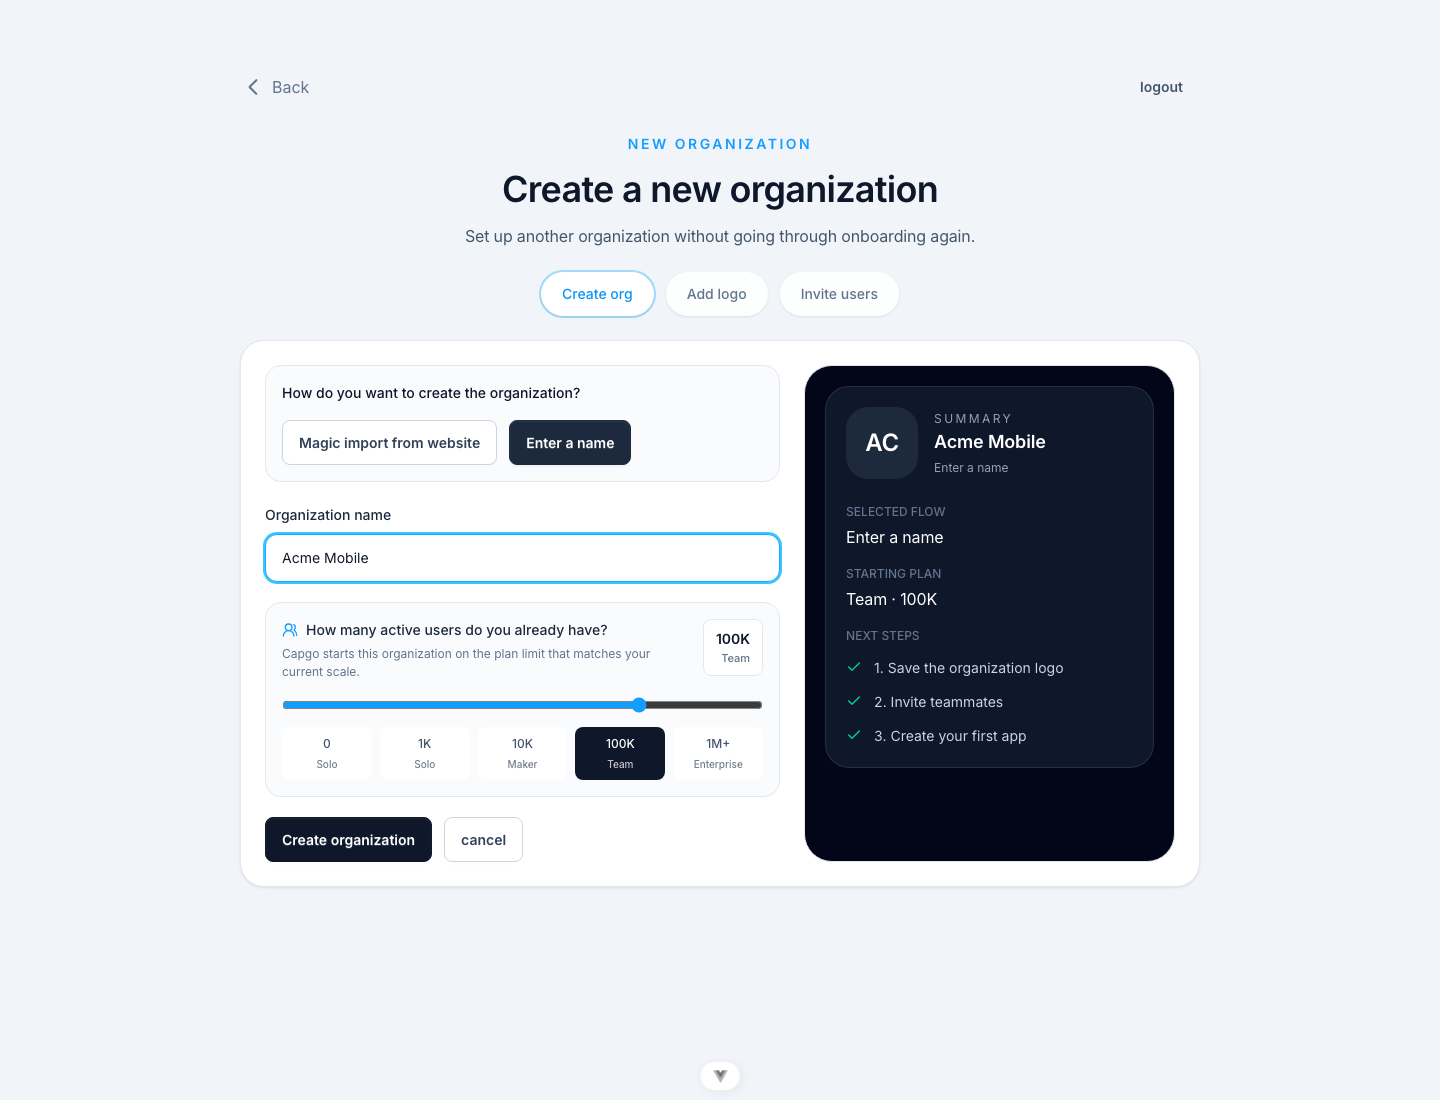
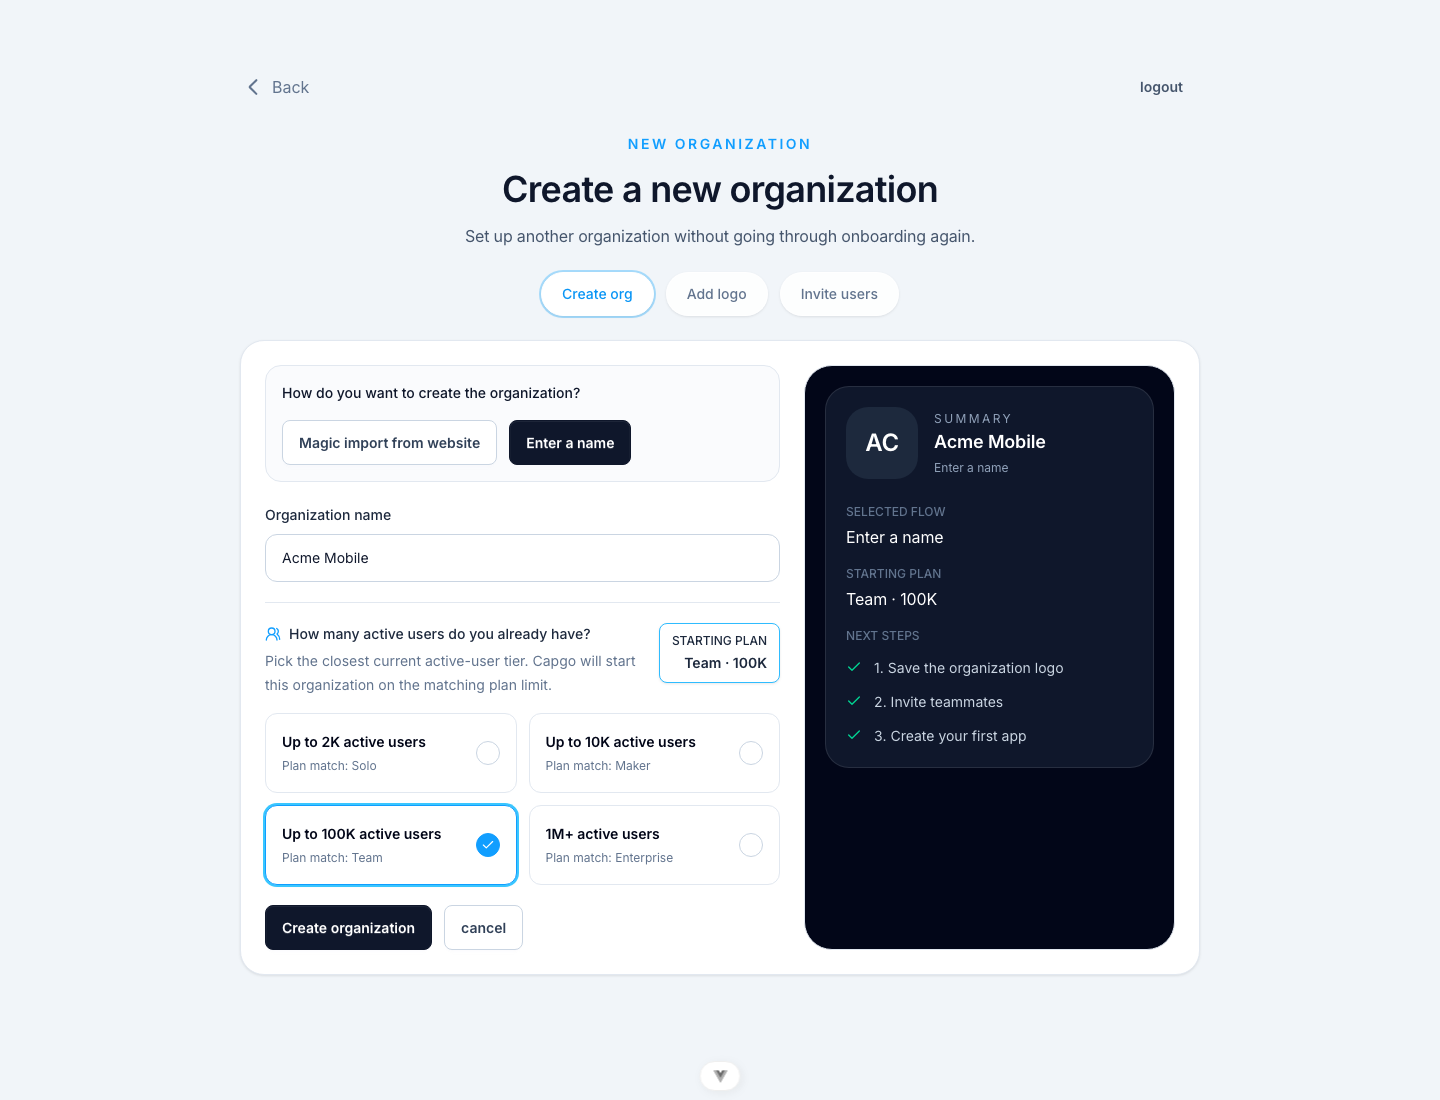
fix(onboarding): improve org plan selector

Changed region(s): [[0.1562, 0.5564, 0.5312, 0.8655], [0.5312, 0.7727, 0.8438, 0.8655]]

diff --git a/src/pages/onboarding/organization.vue b/src/pages/onboarding/organization.vue
@@ -34,6 +34,12 @@ interface WebsitePreview {
   website: string
 }
 
+interface UserCountStop {
+  value: number
+  label: string
+  planName: string
+}
+
 const route = useRoute()
 const router = useRouter()
 const { t } = useI18n()
@@ -58,16 +64,15 @@ const websitePreview = ref<WebsitePreview | null>(null)
 const inviteModalRef = ref<InviteTeammateModalRef | null>(null)
 const logoInputRef = useTemplateRef<HTMLInputElement>('logoInput')
 const isAdditionalOrgFlow = ref(false)
-const estimatedUsersIndex = ref(0)
+const estimatedUsersIndex = ref<number | null>(null)
 
-const fallbackUserCountStops = [
-  { value: 0, label: '0', planName: 'Solo' },
-  { value: 1000, label: '1K', planName: 'Solo' },
+const fallbackUserCountStops: UserCountStop[] = [
+  { value: 2000, label: '2K', planName: 'Solo' },
   { value: 10000, label: '10K', planName: 'Maker' },
   { value: 100000, label: '100K', planName: 'Team' },
   { value: 1000000, label: '1M+', planName: 'Enterprise' },
 ]
-const planNameOrder = ['Solo', 'Maker', 'Team', 'Enterprise']
+const planNameOrder = ['Solo', 'Maker', 'Team', 'Enterprise'] as const
 
 const onboardingSteps: Array<{ id: OnboardingStep, label: string }> = [
   { id: 'details', label: t('organization-onboarding-step-details') },
@@ -82,7 +87,7 @@ const activeOrgName = computed(() => {
   return orgNameInput.value.trim() || websitePreview.value?.name || ''
 })
 const hasSavedLogo = computed(() => currentOrganization.value?.gid === activeOrgId.value && !!currentOrganization.value.logo)
-const userCountStops = computed(() => {
+const userCountStops = computed<UserCountStop[]>(() => {
   const planStops = planNameOrder
     .map(planName => main.plans.find(plan => plan.name === planName))
     .filter(plan => plan?.mau)
@@ -96,15 +101,16 @@ const userCountStops = computed(() => {
     })
 
   if (planStops.length === planNameOrder.length) {
-    return [
-      { value: 0, label: '0', planName: planStops[0].planName },
-      ...planStops,
-    ]
+    return planStops
   }
 
   return fallbackUserCountStops
 })
-const selectedUserCountStop = computed(() => userCountStops.value[Math.min(estimatedUsersIndex.value, userCountStops.value.length - 1)] ?? userCountStops.value[0])
+const selectedUserCountStop = computed<UserCountStop | null>(() => {
+  if (estimatedUsersIndex.value === null)
+    return null
+  return userCountStops.value[Math.min(estimatedUsersIndex.value, userCountStops.value.length - 1)] ?? null
+})
 
 const websiteHostname = computed(() => {
   const value = websiteInput.value.trim()
@@ -126,7 +132,7 @@ const canCreateOrganization = computed(() => {
   if (!main.auth || isSubmitting.value || isLoadingWebsitePreview.value || !mode.value)
     return false
 
-  return !!orgNameInput.value.trim()
+  return !!orgNameInput.value.trim() && !!selectedUserCountStop.value
 })
 const hasExistingOrganization = computed(() => organizationStore.organizations.some(org => !org.role.includes('invite')))
 const inviteSuccessCount = computed(() => sentInvites.value.length)
@@ -161,6 +167,20 @@ function formatUserCount(value: number, plus = false) {
   if (value >= 1000)
     return `${value / 1000}K`
   return String(value)
+}
+
+function getUserCountStopTitle(stop: UserCountStop) {
+  if (stop.value >= 1_000_000)
+    return t('organization-onboarding-active-users-plus', { count: stop.label })
+  return t('organization-onboarding-active-users-up-to', { count: stop.label })
+}
+
+function isUserCountStopSelected(index: number) {
+  return estimatedUsersIndex.value === index
+}
+
+function selectUserCountStop(index: number) {
+  estimatedUsersIndex.value = index
 }
 
 function getInviteDisplayName(invite: SentInvite) {
@@ -328,6 +348,11 @@ async function createOrganization() {
   const orgName = orgNameInput.value.trim()
   if (!orgName) {
     toast.error(t('org-name-required'))
+    return
+  }
+
+  if (!selectedUserCountStop.value) {
+    toast.error(t('organization-onboarding-user-scale-required'))
     return
   }
 
@@ -690,53 +715,78 @@ onUnmounted(() => {
                   </p>
                 </div>
 
-                <div class="rounded-2xl border border-slate-200 bg-slate-50/70 p-4 dark:border-slate-200 dark:bg-slate-50/70">
-                  <div class="flex items-start justify-between gap-4">
+                <div class="border-t border-slate-200 pt-5">
+                  <div class="flex flex-col gap-3 sm:flex-row sm:items-start sm:justify-between">
                     <div class="min-w-0">
-                      <label for="estimated-users" class="flex items-center gap-2 text-sm font-medium text-slate-800 dark:text-slate-800">
+                      <p id="estimated-users-label" class="flex items-center gap-2 text-sm font-medium text-slate-800 dark:text-slate-800">
                         <IconUsers class="h-4 w-4 text-azure-500" />
                         {{ t('organization-onboarding-existing-users-label') }}
-                      </label>
-                      <p class="mt-1 text-xs text-slate-500 dark:text-slate-500">
+                      </p>
+                      <p id="estimated-users-help" class="mt-1 text-sm leading-6 text-slate-500 dark:text-slate-500">
                         {{ t('organization-onboarding-existing-users-helper') }}
                       </p>
                     </div>
-                    <div class="shrink-0 rounded-lg border border-slate-200 bg-white px-3 py-2 text-right dark:border-slate-200 dark:bg-white">
-                      <div class="text-sm font-semibold text-slate-900">
-                        {{ selectedUserCountStop.label }}
+                    <div
+                      class="shrink-0 rounded-lg border px-3 py-2 text-left sm:text-right"
+                      :class="selectedUserCountStop ? 'border-azure-200 bg-white text-slate-800 shadow-sm' : 'border-slate-200 bg-slate-50 text-slate-500'"
+                    >
+                      <div class="text-xs font-medium uppercase">
+                        {{ t('organization-onboarding-starting-plan') }}
                       </div>
-                      <div class="text-[11px] font-medium text-slate-500">
-                        {{ selectedUserCountStop.planName }}
+                      <div class="mt-0.5 text-sm font-semibold">
+                        {{ selectedUserCountStop
+                          ? `${selectedUserCountStop.planName} · ${selectedUserCountStop.label}`
+                          : t('organization-onboarding-user-scale-required') }}
                       </div>
                     </div>
                   </div>
 
-                  <input
+                  <div
                     id="estimated-users"
-                    v-model.number="estimatedUsersIndex"
-                    type="range"
-                    min="0"
-                    :max="userCountStops.length - 1"
-                    step="1"
-                    class="mt-5 h-2 w-full cursor-pointer accent-azure-500"
+                    class="mt-4 grid gap-3 sm:grid-cols-2"
+                    role="radiogroup"
+                    aria-labelledby="estimated-users-label"
+                    aria-describedby="estimated-users-help"
                     data-test="onboarding-estimated-users"
                   >
-                  <div
-                    class="mt-3 grid gap-2"
-                    :style="{ gridTemplateColumns: `repeat(${userCountStops.length}, minmax(0, 1fr))` }"
-                  >
-                    <button
+                    <label
                       v-for="(stop, index) in userCountStops"
                       :key="`${stop.planName}-${stop.value}`"
-                      type="button"
-                      class="rounded-lg px-1.5 py-2 text-center text-xs font-medium transition"
-                      :class="index === estimatedUsersIndex ? 'bg-slate-900 text-white' : 'bg-white text-slate-600 hover:bg-slate-100'"
-                      :aria-pressed="index === estimatedUsersIndex"
-                      @click="estimatedUsersIndex = index"
+                      class="group cursor-pointer"
+                      :data-value="stop.value"
+                      data-test="onboarding-estimated-users-option"
                     >
-                      <span class="block">{{ stop.label }}</span>
-                      <span class="mt-1 block truncate text-[10px] opacity-75">{{ stop.planName }}</span>
-                    </button>
+                      <input
+                        type="radio"
+                        name="estimated-users"
+                        class="peer sr-only"
+                        :value="index"
+                        :checked="isUserCountStopSelected(index)"
+                        @change="selectUserCountStop(index)"
+                      >
+                      <span
+                        class="flex min-h-20 items-center justify-between gap-3 rounded-xl border p-4 text-left transition peer-focus-visible:outline-none peer-focus-visible:ring-2 peer-focus-visible:ring-azure-400 peer-focus-visible:ring-offset-2"
+                        :class="isUserCountStopSelected(index)
+                          ? 'border-azure-500 bg-white text-slate-950 shadow-sm ring-2 ring-azure-100'
+                          : 'border-slate-200 bg-white text-slate-700 hover:border-slate-300 hover:bg-slate-50'"
+                      >
+                        <span class="min-w-0">
+                          <span class="block text-sm font-semibold text-slate-950">
+                            {{ getUserCountStopTitle(stop) }}
+                          </span>
+                          <span class="mt-1 block text-xs text-slate-500">
+                            {{ t('organization-onboarding-plan-match') }}: {{ stop.planName }}
+                          </span>
+                        </span>
+                        <span
+                          class="flex h-6 w-6 shrink-0 items-center justify-center rounded-full border transition"
+                          :class="isUserCountStopSelected(index) ? 'border-azure-500 bg-azure-500 text-white' : 'border-slate-300 bg-white text-transparent group-hover:border-slate-400'"
+                          aria-hidden="true"
+                        >
+                          <IconCheck class="h-3.5 w-3.5" />
+                        </span>
+                      </span>
+                    </label>
                   </div>
                 </div>
 
@@ -808,7 +858,9 @@ onUnmounted(() => {
                       {{ t('organization-onboarding-starting-plan') }}
                     </div>
                     <div class="mt-1 text-base text-white">
-                      {{ selectedUserCountStop.planName }} · {{ selectedUserCountStop.label }}
+                      {{ selectedUserCountStop
+                        ? `${selectedUserCountStop.planName} · ${selectedUserCountStop.label}`
+                        : t('organization-onboarding-user-scale-required') }}
                     </div>
                   </div>
                   <div>

diff --git a/tests/organization-api.test.ts b/tests/organization-api.test.ts
@@ -950,6 +950,56 @@ describe('[DELETE] /organization/members', () => {
 })
 
 describe('[POST] /organization', () => {
+  async function expectCreatedOrganizationPlan(estimatedMau: number, planName: string) {
+    const name = `Created ${planName} Plan Organization ${randomUUID()}`
+    const response = await fetch(`${BASE_URL}/organization`, {
+      headers,
+      method: 'POST',
+      body: JSON.stringify({ name, estimatedMau }),
+    })
+    expect(response.status).toBe(200)
+    const responseType = type({
+      id: 'string.uuid',
+    })
+    const safe = safeParseSchema(responseType, await response.json())
+    expect(safe.success).toBe(true)
+    if (!safe.success)
+      throw safe.error
+
+    let customerId: string | null = null
+
+    try {
+      const { data: expectedPlan, error: planError } = await getSupabaseClient()
+        .from('plans')
+        .select('stripe_id')
+        .eq('name', planName)
+        .single()
+      expect(planError).toBeNull()
+
+      const { data: org, error: orgError } = await getSupabaseClient()
+        .from('orgs')
+        .select('customer_id')
+        .eq('id', safe.data.id)
+        .single()
+      expect(orgError).toBeNull()
+      customerId = org?.customer_id ?? null
+      expect(customerId).toBeTruthy()
+
+      const { data: stripeInfo, error: stripeError } = await getSupabaseClient()
+        .from('stripe_info')
+        .select('product_id')
+        .eq('customer_id', customerId!)
+        .single()
+      expect(stripeError).toBeNull()
+      expect(stripeInfo?.product_id).toBe(expectedPlan?.stripe_id)
+    }
+    finally {
+      await getSupabaseClient().from('orgs').delete().eq('id', safe.data.id)
+      if (customerId)
+        await getSupabaseClient().from('stripe_info').delete().eq('customer_id', customerId)
+    }
+  }
+
   it.concurrent('create organization', async () => {
     const name = `Created Organization ${new Date().toISOString()}`
     const website = 'HTTPS://capgo.app'
@@ -1042,53 +1092,15 @@ describe('[POST] /organization', () => {
   })
 
   it.concurrent('create organization uses the estimated active users to choose the initial plan', async () => {
-    const name = `Created Team Plan Organization ${randomUUID()}`
-    const response = await fetch(`${BASE_URL}/organization`, {
-      headers,
-      method: 'POST',
-      body: JSON.stringify({ name, estimatedMau: 100000 }),
-    })
-    expect(response.status).toBe(200)
-    const responseType = type({
-      id: 'string.uuid',
-    })
-    const safe = safeParseSchema(responseType, await response.json())
-    expect(safe.success).toBe(true)
-    if (!safe.success)
-      throw safe.error
+    await expectCreatedOrganizationPlan(100000, 'Team')
+  })
 
-    let customerId: string | null = null
+  it.concurrent('create organization keeps Solo through 2K active users', async () => {
+    await expectCreatedOrganizationPlan(2000, 'Solo')
+  })
 
-    try {
-      const { data: teamPlan, error: planError } = await getSupabaseClient()
-        .from('plans')
-        .select('stripe_id')
-        .eq('name', 'Team')
-        .single()
-      expect(planError).toBeNull()
-
-      const { data: org, error: orgError } = await getSupabaseClient()
-        .from('orgs')
-        .select('customer_id')
-        .eq('id', safe.data.id)
-        .single()
-      expect(orgError).toBeNull()
-      customerId = org?.customer_id ?? null
-      expect(customerId).toBeTruthy()
-
-      const { data: stripeInfo, error: stripeError } = await getSupabaseClient()
-        .from('stripe_info')
-        .select('product_id')
-        .eq('customer_id', customerId!)
-        .single()
-      expect(stripeError).toBeNull()
-      expect(stripeInfo?.product_id).toBe(teamPlan?.stripe_id)
-    }
-    finally {
-      await getSupabaseClient().from('orgs').delete().eq('id', safe.data.id)
-      if (customerId)
-        await getSupabaseClient().from('stripe_info').delete().eq('customer_id', customerId)
-    }
+  it.concurrent('create organization moves above the Solo active user limit to Maker', async () => {
+    await expectCreatedOrganizationPlan(2001, 'Maker')
   })
 
   it.concurrent('create organization rejects an estimated active user count above the largest plan stop', async () => {